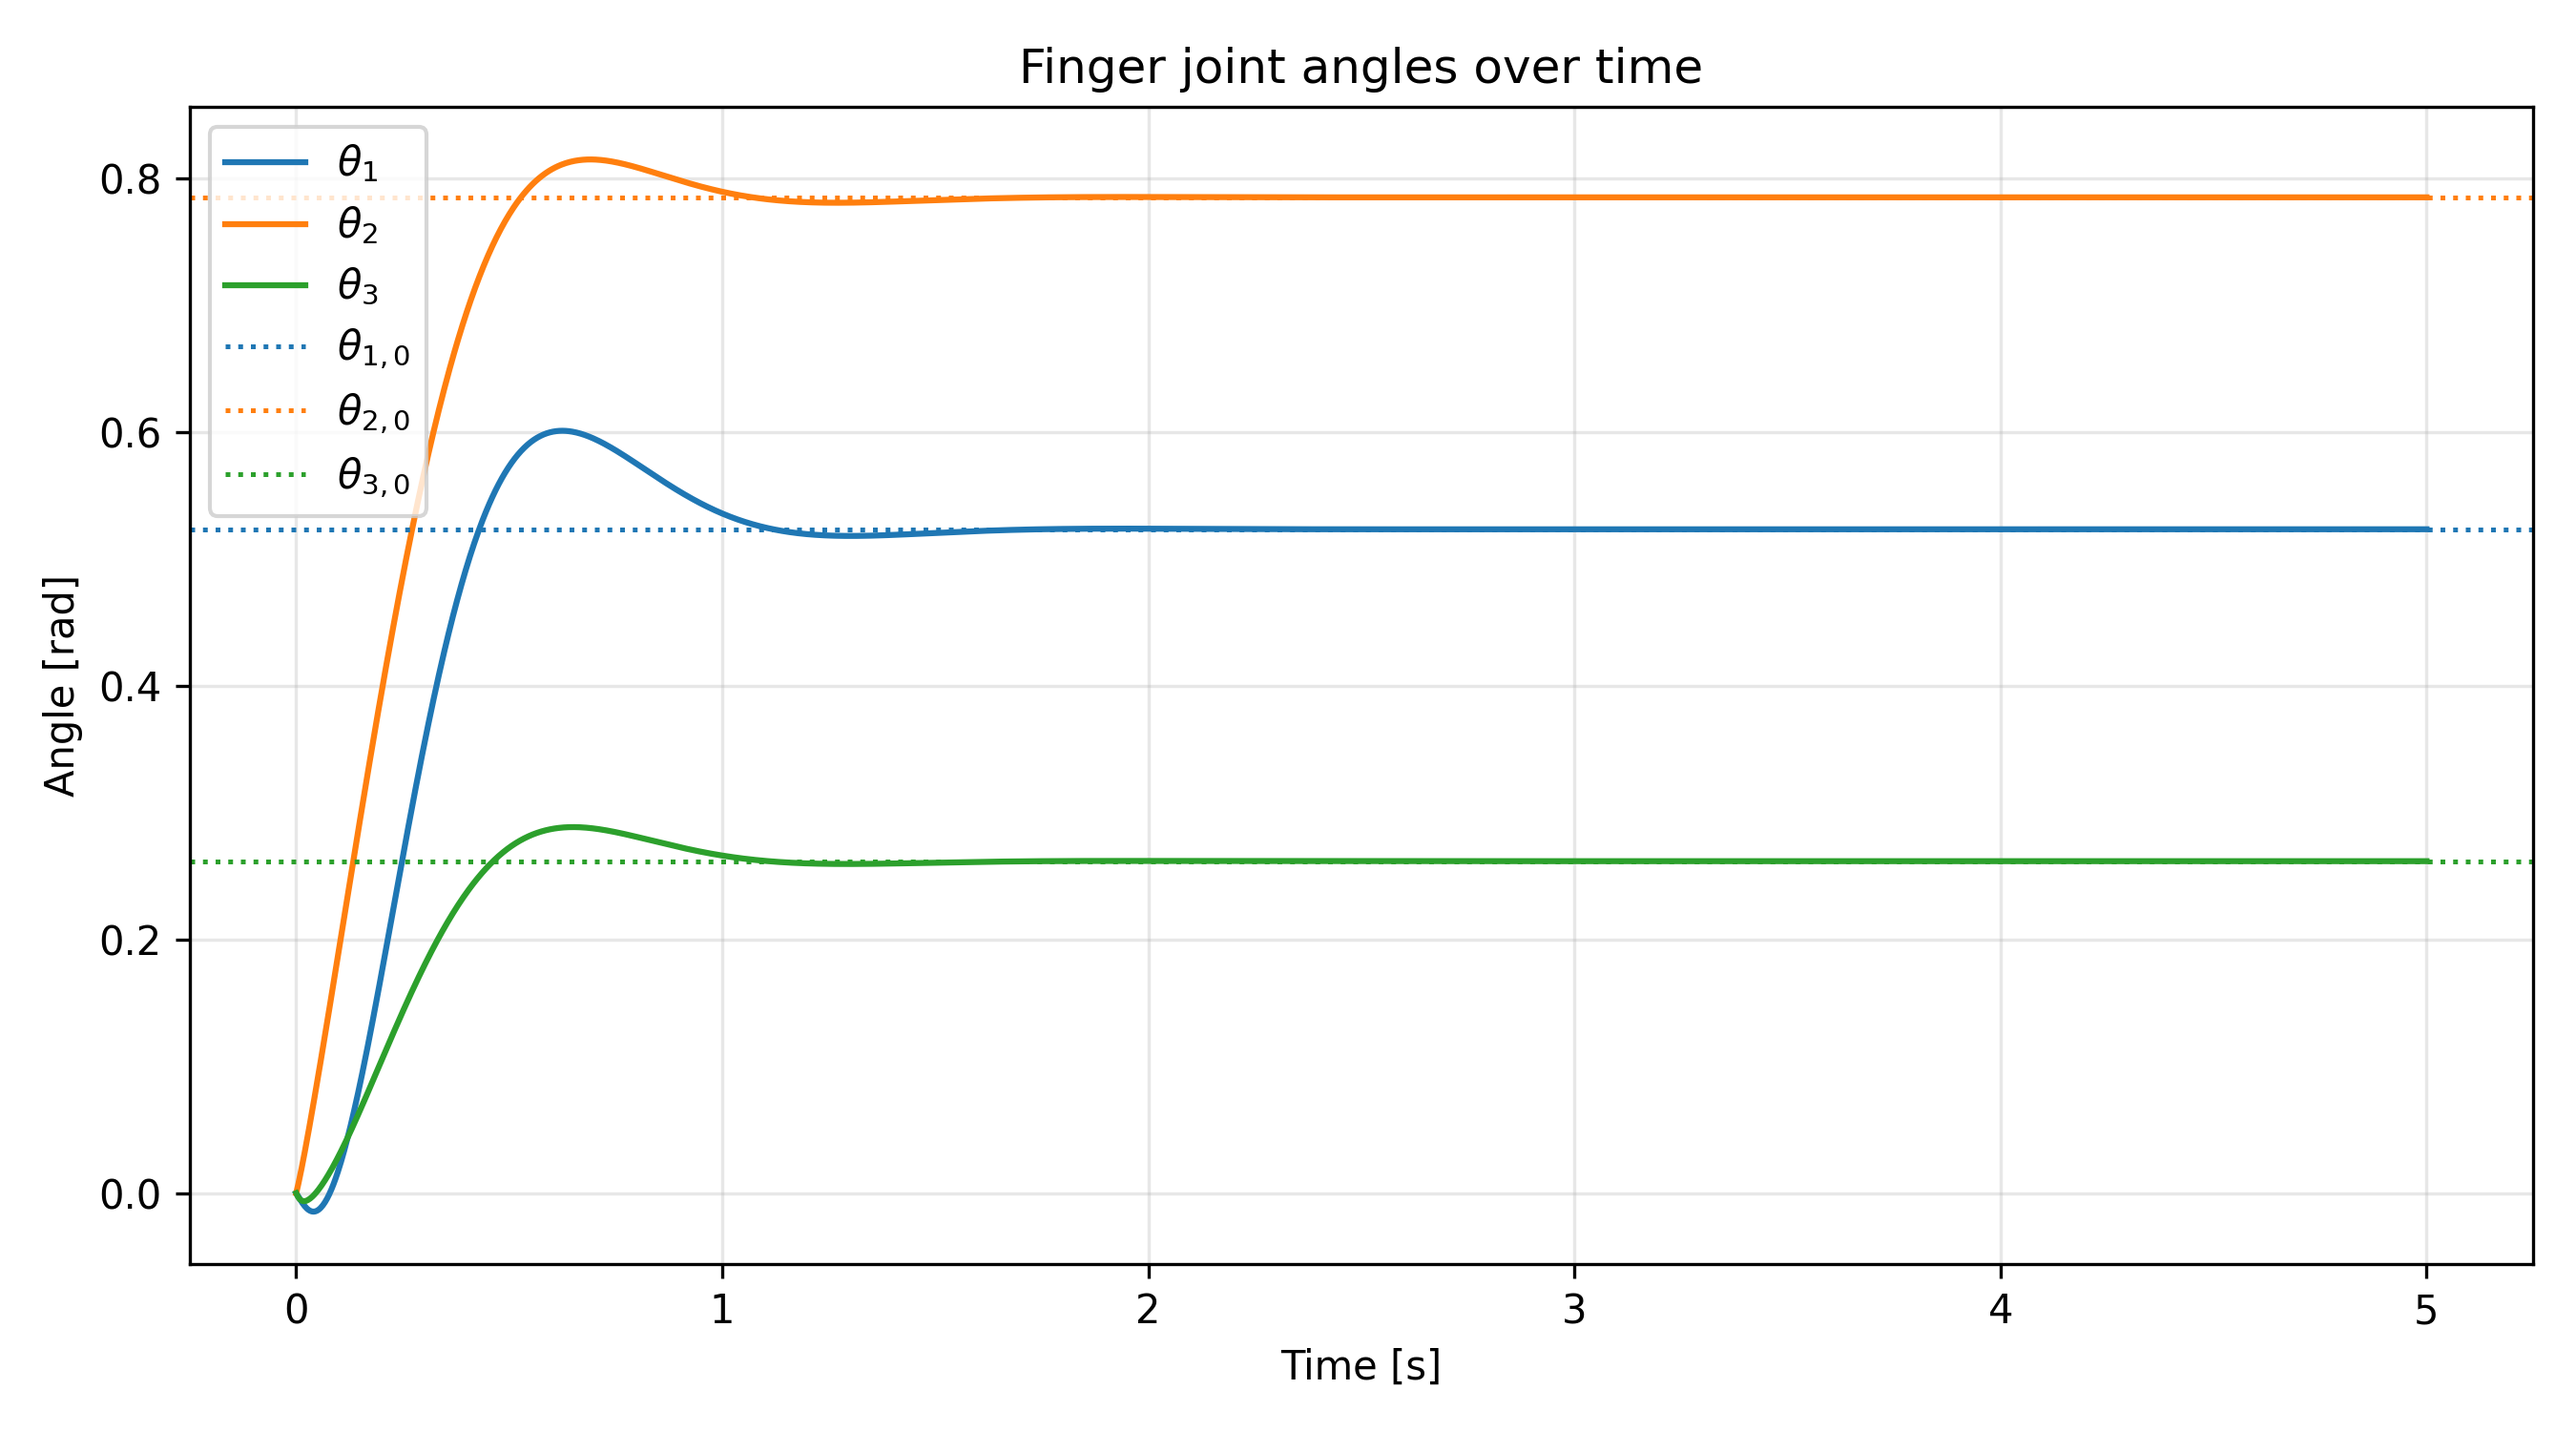
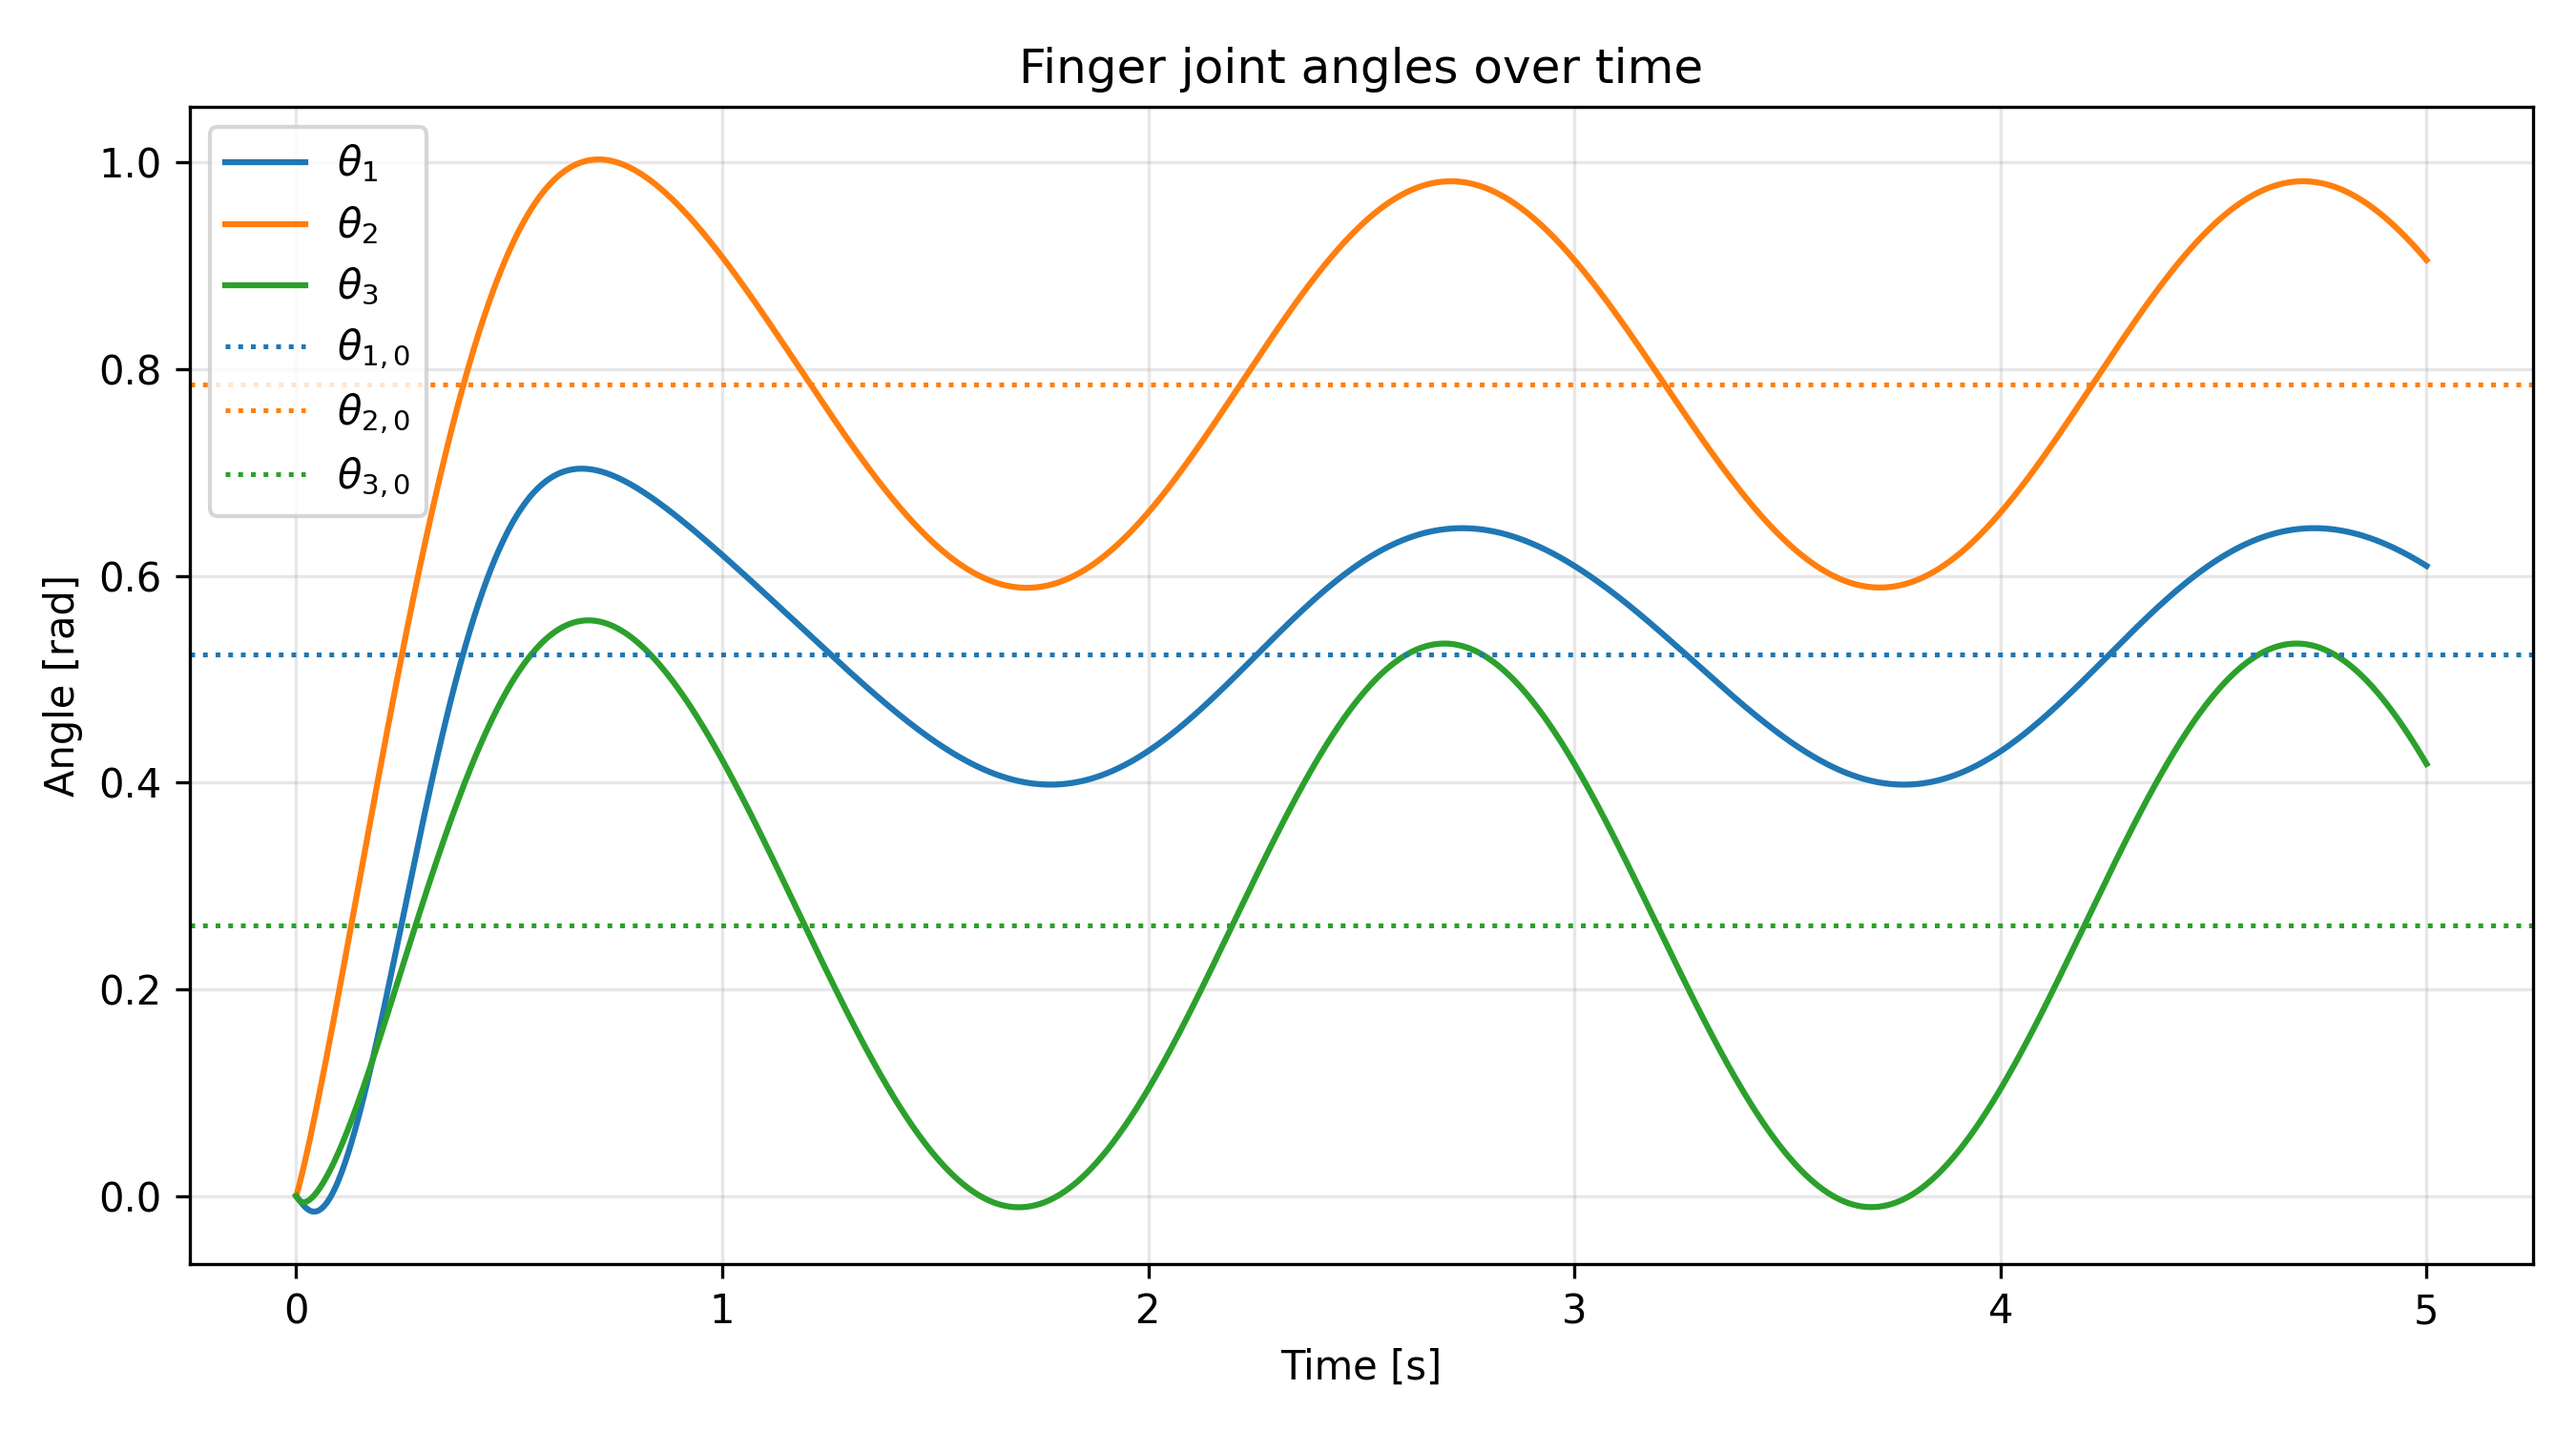
Improved the animation

diff --git a/code/visualization_finger_simulation.py b/code/visualization_finger_simulation.py
@@ -1,12 +1,11 @@
 
 from matplotlib import pyplot as plt
-from matplotlib.animation import FuncAnimation, PillowWriter
+from matplotlib.animation import FuncAnimation
 import matplotlib.patheffects as pe
-from matplotlib.patches import Arc
+from matplotlib.patches import Arc, FancyArrow
 import numpy as np
 from numpy import sin, cos
 import os
-from tqdm import tqdm
 
 
 def plot_simulation_angles(t, th1, th2, th3, theta1_0, theta2_0, theta3_0, filepath, should_save):
@@ -34,18 +33,20 @@ def plot_simulation_angles(t, th1, th2, th3, theta1_0, theta2_0, theta3_0, filep
 
 
 def animate_finger_simulation(sol, l1, l2, l3, speed=1.0, save_fps=None,
-                              filepath=None, should_save=False, should_show=True):
+                              link_force_s=None, link_force_mag=None, link_force_alpha=None):
     """
     Animate the simulated finger motion.
 
     Parameters
     ----------
-    sol          : ODE solution from solve_ivp
-    speed        : playback speed multiplier (default 1.0 = real-time)
-    save_fps     : if set, use frame-based timing (required for saving to file).
-    filepath     : path to save the animation (e.g. 'output/anim.mp4').
-    should_save  : if True, save the animation to filepath before showing.
-    should_show  : if True, display the animation window.
+    sol              : ODE solution from solve_ivp
+    speed            : playback speed multiplier (default 1.0 = real-time)
+    save_fps         : if set, use frame-based timing (required for saving to file).
+    link_force_s     : tuple (s1, s2, s3) – attachment distances [m] from each
+                       link’s proximal joint;  0 ≤ s_i ≤ l_i.
+    link_force_mag   : tuple of three callables  F_i(t) -> float [N], one per link.
+    link_force_alpha : tuple of three callables  alpha_i(t) -> float [rad], one per link.
+                       0 = along link axis (proximal→distal),  pi/2 = 90° CCW from axis.
     """
     save_mode = save_fps is not None
     # ---- Visual style (mirrors visualization_finger_interactive.py) ----
@@ -161,23 +162,78 @@ def animate_finger_simulation(sol, l1, l2, l3, speed=1.0, save_fps=None,
     time_text = ax.text(0.02, 0.96, "", transform=ax.transAxes,
                         fontsize=11, va="top")
 
-    # ---- Timing setup (must be before update is called) ----
-    if save_mode:
-        interval = int(1000 / save_fps)
-        n_ticks  = int(np.ceil(sol.t[-1] * save_fps / speed)) + 1
-    else:
-        display_fps = 30
-        interval    = int(1000 / display_fps)
-        n_ticks     = int(np.ceil(sol.t[-1] * display_fps / speed)) + 1
+    # ---- Link force visual setup ----
+    _lf_colors = ["crimson", "darkorange", "mediumvioletred"]
+    _lf_labels = [r"$F_1$ (link 1)", r"$F_2$ (link 2)", r"$F_3$ (link 3)"]
+    _lf_arrow_len = 0.45 * L1   # fixed visual arrow length [mm]
+    link_arrow_patches = [None, None, None]   # redrawn every frame
+    lf_att_scatters    = []                   # small diamonds at attachment points
+
+    def _att_points_mm(a1, a2, a3):
+        """Return the three force attachment points in mm."""
+        MCP_loc = base + L1 * np.array([cos(a1), sin(a1)])
+        PIP_loc = MCP_loc + L2 * np.array([cos(a2), sin(a2)])
+        att1 = base    + link_force_s[0] * 1000.0 * np.array([cos(a1), sin(a1)])
+        att2 = MCP_loc + link_force_s[1] * 1000.0 * np.array([cos(a2), sin(a2)])
+        att3 = PIP_loc + link_force_s[2] * 1000.0 * np.array([cos(a3), sin(a3)])
+        return att1, att2, att3
+
+    def _make_lf_arrow(att_mm, link_angle, alpha_val, mag_val, color):
+        """Create a FancyArrow for a link force (returns None if mag is ~zero)."""
+        if abs(mag_val) < 1e-12:
+            return None
+        force_angle = link_angle + alpha_val
+        dx = _lf_arrow_len * cos(force_angle)
+        dy = _lf_arrow_len * sin(force_angle)
+        hw = _lf_arrow_len * 0.20
+        hl = _lf_arrow_len * 0.28
+        return FancyArrow(att_mm[0], att_mm[1], dx, dy,
+                          width=hw * 0.3, head_width=hw, head_length=hl,
+                          color=color, alpha=0.85, zorder=6,
+                          length_includes_head=True)
+
+    if link_force_s is not None:
+        t0 = sol.t[0]
+        atts_i  = _att_points_mm(a1, a2, a3)
+        angles_i = [a1, a2, a3]
+        for idx in range(3):
+            patch = _make_lf_arrow(atts_i[idx], angles_i[idx],
+                                   link_force_alpha[idx](t0), link_force_mag[idx](t0),
+                                   _lf_colors[idx])
+            link_arrow_patches[idx] = patch
+            if patch is not None:
+                ax.add_patch(patch)
+            sc = ax.scatter(*atts_i[idx], s=40, c=_lf_colors[idx], marker='D',
+                            edgecolors='black', linewidths=0.8, zorder=7)
+            lf_att_scatters.append(sc)
+        for color, label in zip(_lf_colors, _lf_labels):
+            ax.plot([], [], color=color, lw=2, label=label)
+        ax.legend(loc="upper right", fontsize=10)
+
+    # Live readout of force values (bottom-left corner)
+    force_info_text = ax.text(0.02, 0.02, "", transform=ax.transAxes,
+                              fontsize=8, va="bottom", family="monospace",
+                              bbox=dict(boxstyle='round', facecolor='white', alpha=0.7))
 
     def _set_line(line, p0, p1):
         line.set_xdata([p0[0], p1[0]])
         line.set_ydata([p0[1], p1[1]])
 
     def update(frame):
+        import time as _time
         nonlocal arc_mcp, arc_pip, arc_dip
 
-        sim_t = min(frame * (interval / 1000.0) * speed, sol.t[-1])
+        if save_mode:
+            # Frame-based timing: each frame advances by 1/save_fps seconds of real time
+            sim_t = min(frame / save_fps * speed, sol.t[-1])
+        else:
+            # Wall-clock driven: find which simulation index matches elapsed real time
+            if update.t_start is None:
+                update.t_start = _time.perf_counter()
+            elapsed = (_time.perf_counter() - update.t_start) * speed
+            sim_t = min(elapsed, sol.t[-1])
+
+        # Clamp to the last frame once the simulation is done
         frame = int(np.searchsorted(sol.t, sim_t))
         frame = min(frame, sol.y.shape[1] - 1)
 
@@ -240,25 +296,45 @@ def animate_finger_simulation(sol, l1, l2, l3, speed=1.0, save_fps=None,
 
         time_text.set_text(f"t = {sim_t:.2f} s")
 
+        # Update link force arrows, attachment dots, and info text
+        if link_force_s is not None:
+            att1, att2, att3 = _att_points_mm(a1, a2, a3)
+            atts   = [att1, att2, att3]
+            angles = [a1, a2, a3]
+            info_lines = []
+            for idx in range(3):
+                if link_arrow_patches[idx] is not None:
+                    link_arrow_patches[idx].remove()
+                mag_val   = link_force_mag[idx](sim_t)
+                alpha_val = link_force_alpha[idx](sim_t)
+                patch = _make_lf_arrow(atts[idx], angles[idx], alpha_val, mag_val, _lf_colors[idx])
+                link_arrow_patches[idx] = patch
+                if patch is not None:
+                    ax.add_patch(patch)
+                lf_att_scatters[idx].set_offsets([atts[idx]])
+                info_lines.append(f"F{idx+1}={mag_val:6.1f} N   alpha{idx+1}={alpha_val:.3f} rad")
+            force_info_text.set_text("\n".join(info_lines))
+
         return (fill_wrist, fill_pp, fill_ip, fill_dp,
                 rim_wrist, rim_pp, rim_ip, rim_dp,
                 ray_mcp, ray_pip, time_text, ann_mcp, ann_pip, ann_dip,
-                *joint_scatters)
+                force_info_text, *joint_scatters, *lf_att_scatters)
 
-    plt.tight_layout()
+    update.t_start = None  # will be set on first call (display mode only)
+
+    if save_mode:
+        # Exact number of frames needed to cover the full simulation at save_fps
+        interval = int(1000 / save_fps)
+        n_ticks  = int(np.ceil(sol.t[-1] * save_fps / speed)) + 1
+    else:
+        # Fire at ~50 fps; each call uses wall time to pick the right frame,
+        # so actual playback speed matches real time regardless of render cost.
+        # n_frames is set large enough that the animation covers the full duration
+        # even on a slow machine.
+        interval = 20  # ms (~50 fps target)
+        n_ticks  = int(sol.t[-1] * 1000 / interval * (1 / speed)) + 50
+
     anim = FuncAnimation(fig, update, frames=n_ticks,
                          interval=interval, blit=False, repeat=not save_mode)
-
-    if should_save and filepath is not None:
-        os.makedirs(os.path.dirname(os.path.abspath(filepath)), exist_ok=True)
-        writer = PillowWriter(fps=save_fps or 30)
-        with tqdm(total=n_ticks, desc="Saving animation", unit="frame") as pbar:
-            def _progress(i, n):
-                pbar.n = i + 1
-                pbar.refresh()
-            anim.save(filepath, writer=writer, progress_callback=_progress)
-            pbar.n = n_ticks
-            pbar.refresh()
-
-    if should_show:
-        plt.show()
+    plt.tight_layout()
+    return anim

diff --git a/controllers/state_space_identifiers.py b/controllers/state_space_identifiers.py
@@ -7,21 +7,26 @@ import os
 sys.path.insert(0, os.path.join(os.path.dirname(__file__), '..'))
 
 import numpy as np
+from numpy import sin, cos, pi
 from scipy.integrate import solve_ivp
 from tqdm import tqdm
 from dynamics import *
 from visualization.visualization_finger_simulation import animate_finger_simulation, plot_simulation_angles
 
 
-def u(theta: np.ndarray, theta_dot: np.ndarray) -> np.ndarray:
-    return np.array([0.0, 0.0, 0.0])
+def u(t: float, theta: np.ndarray, theta_dot: np.ndarray) -> np.ndarray:
+    return np.array([1.0, 2.0, 3.0]) * sin(2 * pi * 0.5 * t)  # Example control input, can be replaced with a more complex controller
 
 
 def main():
     # Figure configuration
-    file_path = "figures/controller_performance/state_space_identifiers/without_controller.png"
+    folder_path = "figures/controller_performance/state_space_identifiers"
+    file_name = "without_controller"
+    file_path = os.path.join(folder_path, file_name)
     should_save_figures = True
-    should_animate = False
+    should_animate = True
+    should_show_figures = False
+
     # Simulation parameters
     T = 5.0  # Total simulation time [s]
     N = 2000  # Number of evaluation points
@@ -34,7 +39,7 @@ def main():
     def ode(t, state):
         theta = state[:3]
         theta_dot = state[3:]
-        tau = u(theta, theta_dot)
+        tau = u(t, theta, theta_dot)
         theta_ddot = dynamics(theta, theta_dot, tau)
         return np.concatenate([theta_dot, theta_ddot])
 
@@ -50,7 +55,9 @@ def main():
 
     # Visualization
     θ1, θ2, θ3 = sol.y[0], sol.y[1], sol.y[2]
-    plot_simulation_angles(sol.t, θ1, θ2, θ3, theta1_0, theta2_0, theta3_0, file_path, should_save_figures)
+    plot_simulation_angles(sol.t, θ1, θ2, θ3, theta1_0, theta2_0, theta3_0, file_path + ".png", should_save_figures)
+    if should_animate:
+        animate_finger_simulation(sol, l1, l2, l3, filepath=file_path + ".gif", should_save=should_save_figures, should_show=should_show_figures)
 
 
 if __name__ == "__main__":

diff --git a/code/simulate_finger_dynamics.py b/code/simulate_finger_dynamics.py
@@ -7,7 +7,7 @@ from numpy import sin, cos, pi
 import matplotlib.pyplot as plt
 from scipy.integrate import solve_ivp
 from tqdm import tqdm
-from visualization.visualization_finger_simulation import animate_finger_simulation, plot_simulation_angles
+from visualization_finger_simulation import animate_finger_simulation, plot_simulation_angles
 
 """
 ----------------------- Define Constants -----------------------
